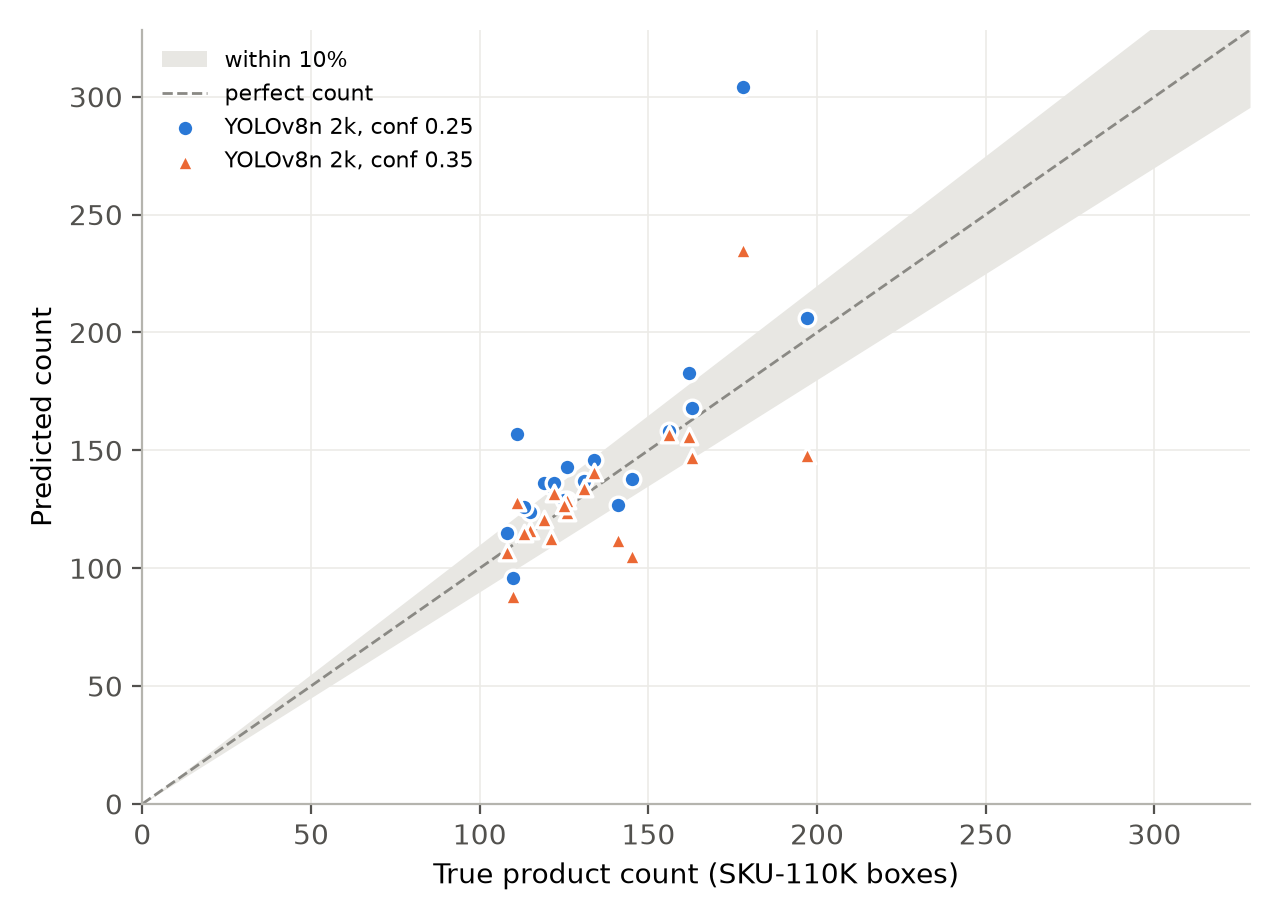
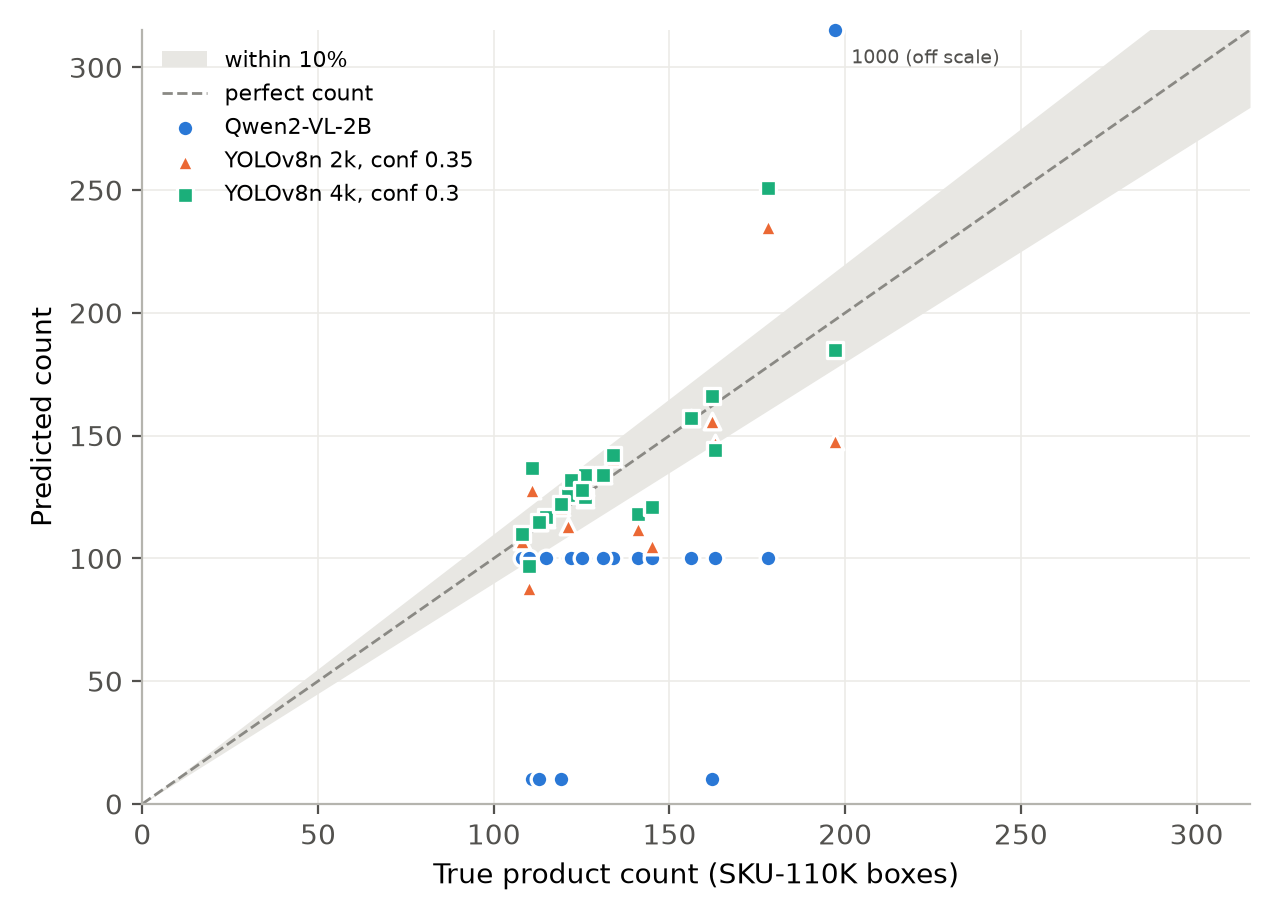
Sprint 4: VLM counting result (MAE 88.5, only 10/100/1000) vs detector (12.1); chart shows VLM and tuned detectors

diff --git a/src/detection/count_compare.py b/src/detection/count_compare.py
@@ -209,14 +209,20 @@ def plot(methods, truth, out):
     matplotlib.use("Agg")
     import matplotlib.pyplot as plt
 
-    lo, hi = 0, max([*truth.values()] + [v for m in methods.values() for v in m.values() if v is not None]) * 1.08
+    # Scale to the true counts; answers far above them (the VLM's "1000") sit on the top edge with a label
+    lo, hi = 0, max(truth.values()) * 1.6
     fig, ax = plt.subplots(figsize=(6.4, 4.6), dpi=200)
     xs = [0, hi]
     ax.fill_between(xs, [0.9 * x for x in xs], [1.1 * x for x in xs], color="#e8e7e3", lw=0, label="within 10%")
     ax.plot(xs, xs, color="#8a8984", lw=1, ls="--", label="perfect count")
     for (name, counts), (color, marker) in zip(methods.items(), SERIES_STYLE):
-        pts = [(truth[k], v) for k, v in counts.items() if v is not None]
-        ax.scatter(*zip(*pts), s=36, color=color, marker=marker, edgecolor="white", linewidth=1.2, label=name, zorder=3)
+        pts = [(truth[k], min(v, hi)) for k, v in counts.items() if v is not None]
+        ax.scatter(*zip(*pts), s=36, color=color, marker=marker, edgecolor="white", linewidth=1.2, label=name,
+                   zorder=3, clip_on=False)
+        for k, v in counts.items():
+            if v is not None and v > hi:
+                ax.annotate(f"{v} (off scale)", (truth[k], hi), xytext=(6, -12), textcoords="offset points",
+                            fontsize=7, color="#52514e")
     ax.set(xlim=(lo, hi), ylim=(lo, hi), xlabel="True product count (SKU-110K boxes)", ylabel="Predicted count")
     ax.grid(color="#ecebe7", lw=0.6)
     ax.set_axisbelow(True)
@@ -256,7 +262,12 @@ def score(args, full, truth):
             w.writerow([k, t] + [methods[m].get(k) for m in methods])
     labels = {k: ("Qwen2-VL-2B" if k == "vlm" else "YOLOv8n " + k.replace("sku110k_v8n_4k", "4k").replace(
         "sku110k_v8n", "2k").replace("@conf", ", conf ")) for k in methods}
-    plot({labels[k]: v for k, v in methods.items()}, truth, ROOT / "data" / "results" / "figures" / "count_compare.png")
+    # Plot the VLM and each detector at its val-tuned threshold (at most 4 series, one colour each)
+    tuning = json.loads(TUNING.read_text()) if TUNING.exists() else {}
+    tuned = {f"{run}@conf{t['best_conf']}" for run, t in tuning.items()}
+    shown = [k for k in methods if k == "vlm"] + [k for k in methods if k in tuned]
+    plot({labels[k]: methods[k] for k in shown[:len(SERIES_STYLE)]}, truth,
+         ROOT / "data" / "results" / "figures" / "count_compare.png")
     print(json.dumps(result, indent=2))
     print(f"-> {out}")
 

diff --git a/docs/weekly_reports/report_4.tex b/docs/weekly_reports/report_4.tex
@@ -16,8 +16,9 @@ Status of the targets set in Weekly Report 3:
   \item \textbf{Fine-tune YOLOv8n and report mAP --- Done.} mAP@0.5 0.918 and
   mAP@0.5:0.95 0.569 on 500 held-out SKU-110K images. Training ran on a team laptop with a
   GTX~1650 GPU instead of Kaggle: it has no weekly time limit and no upload of the dataset is needed.
-  \item \textbf{Detector vs.\ VLM counting on 20 SKU-110K images --- Done.} See
-  Section~\ref{sec:r4-count}.
+  \item \textbf{Detector vs.\ VLM counting on 20 SKU-110K images --- Done.} Mean absolute error
+  12.1 products for the detector against 88.5 for the VLM, which only answered 10, 100 or 1{,}000
+  (Section~\ref{sec:r4-count}).
   \item \textbf{Empty-gap labels from the synthetic generator --- Changed.} Empty gaps on real
   shelves look very different from the flat gaps of generated images. We instead label
   \emph{empty\_gap} boxes directly on our own video frames; 222 frames are pre-labelled and ready for
@@ -245,7 +246,7 @@ Table~\ref{tab:r4-count} gives the result.
 \hline
 Method & MAE & MAPE & Within 10\% & Undercounted \\
 \hline
-Qwen2-VL-2B (zero-shot) & \TODO{} & \TODO{} & \TODO{} & \TODO{} \\
+Qwen2-VL-2B (zero-shot) & 88.5 & 56.4\% & 10\% & 95\% \\
 YOLOv8n 2k images, conf 0.25 (default) & 18.0 & 12.9\% & 55\% & 15\% \\
 YOLOv8n 2k images, conf 0.35 (tuned on val) & 13.9 & 9.4\% & 70\% & 45\% \\
 YOLOv8n 4k images, conf 0.25 & 14.6 & 10.3\% & 75\% & 20\% \\
@@ -254,7 +255,15 @@ YOLOv8n 4k images, conf 0.30 (tuned on val) & \textbf{12.1} & \textbf{8.4\%} & 7
 \end{tabular}
 \end{table}
 
-\TODO{interpretation after VLM run}
+The VLM does not count. All 20 answers were valid JSON, but every one was a power of ten: 100 for
+15 images, 10 for 4 and 1{,}000 for one (Fig.~\ref{fig:r4-count}). Its two answers within 10\% are
+``100'' for images with 108 and 111 products, i.e.\ luck. This is the same behaviour as the
+``every count is 10'' failure of the fridge baseline (Table~\ref{tab:r4-failures}), now measured
+on exact ground truth. The detector with its validation-tuned threshold is about seven times more
+accurate (MAE 12.1 vs.\ 88.5 products) and takes 0.1\,s per frame on a laptop CPU, against 52\,s
+per image for the VLM on our GPU. More training data (4k vs.\ 2k images) also improved counting,
+from MAE 13.9 to 12.1. This confirms the hybrid design: the detector counts, and the VLM is only
+asked about single products.
 
 \begin{figure}[!t]
 \centering
